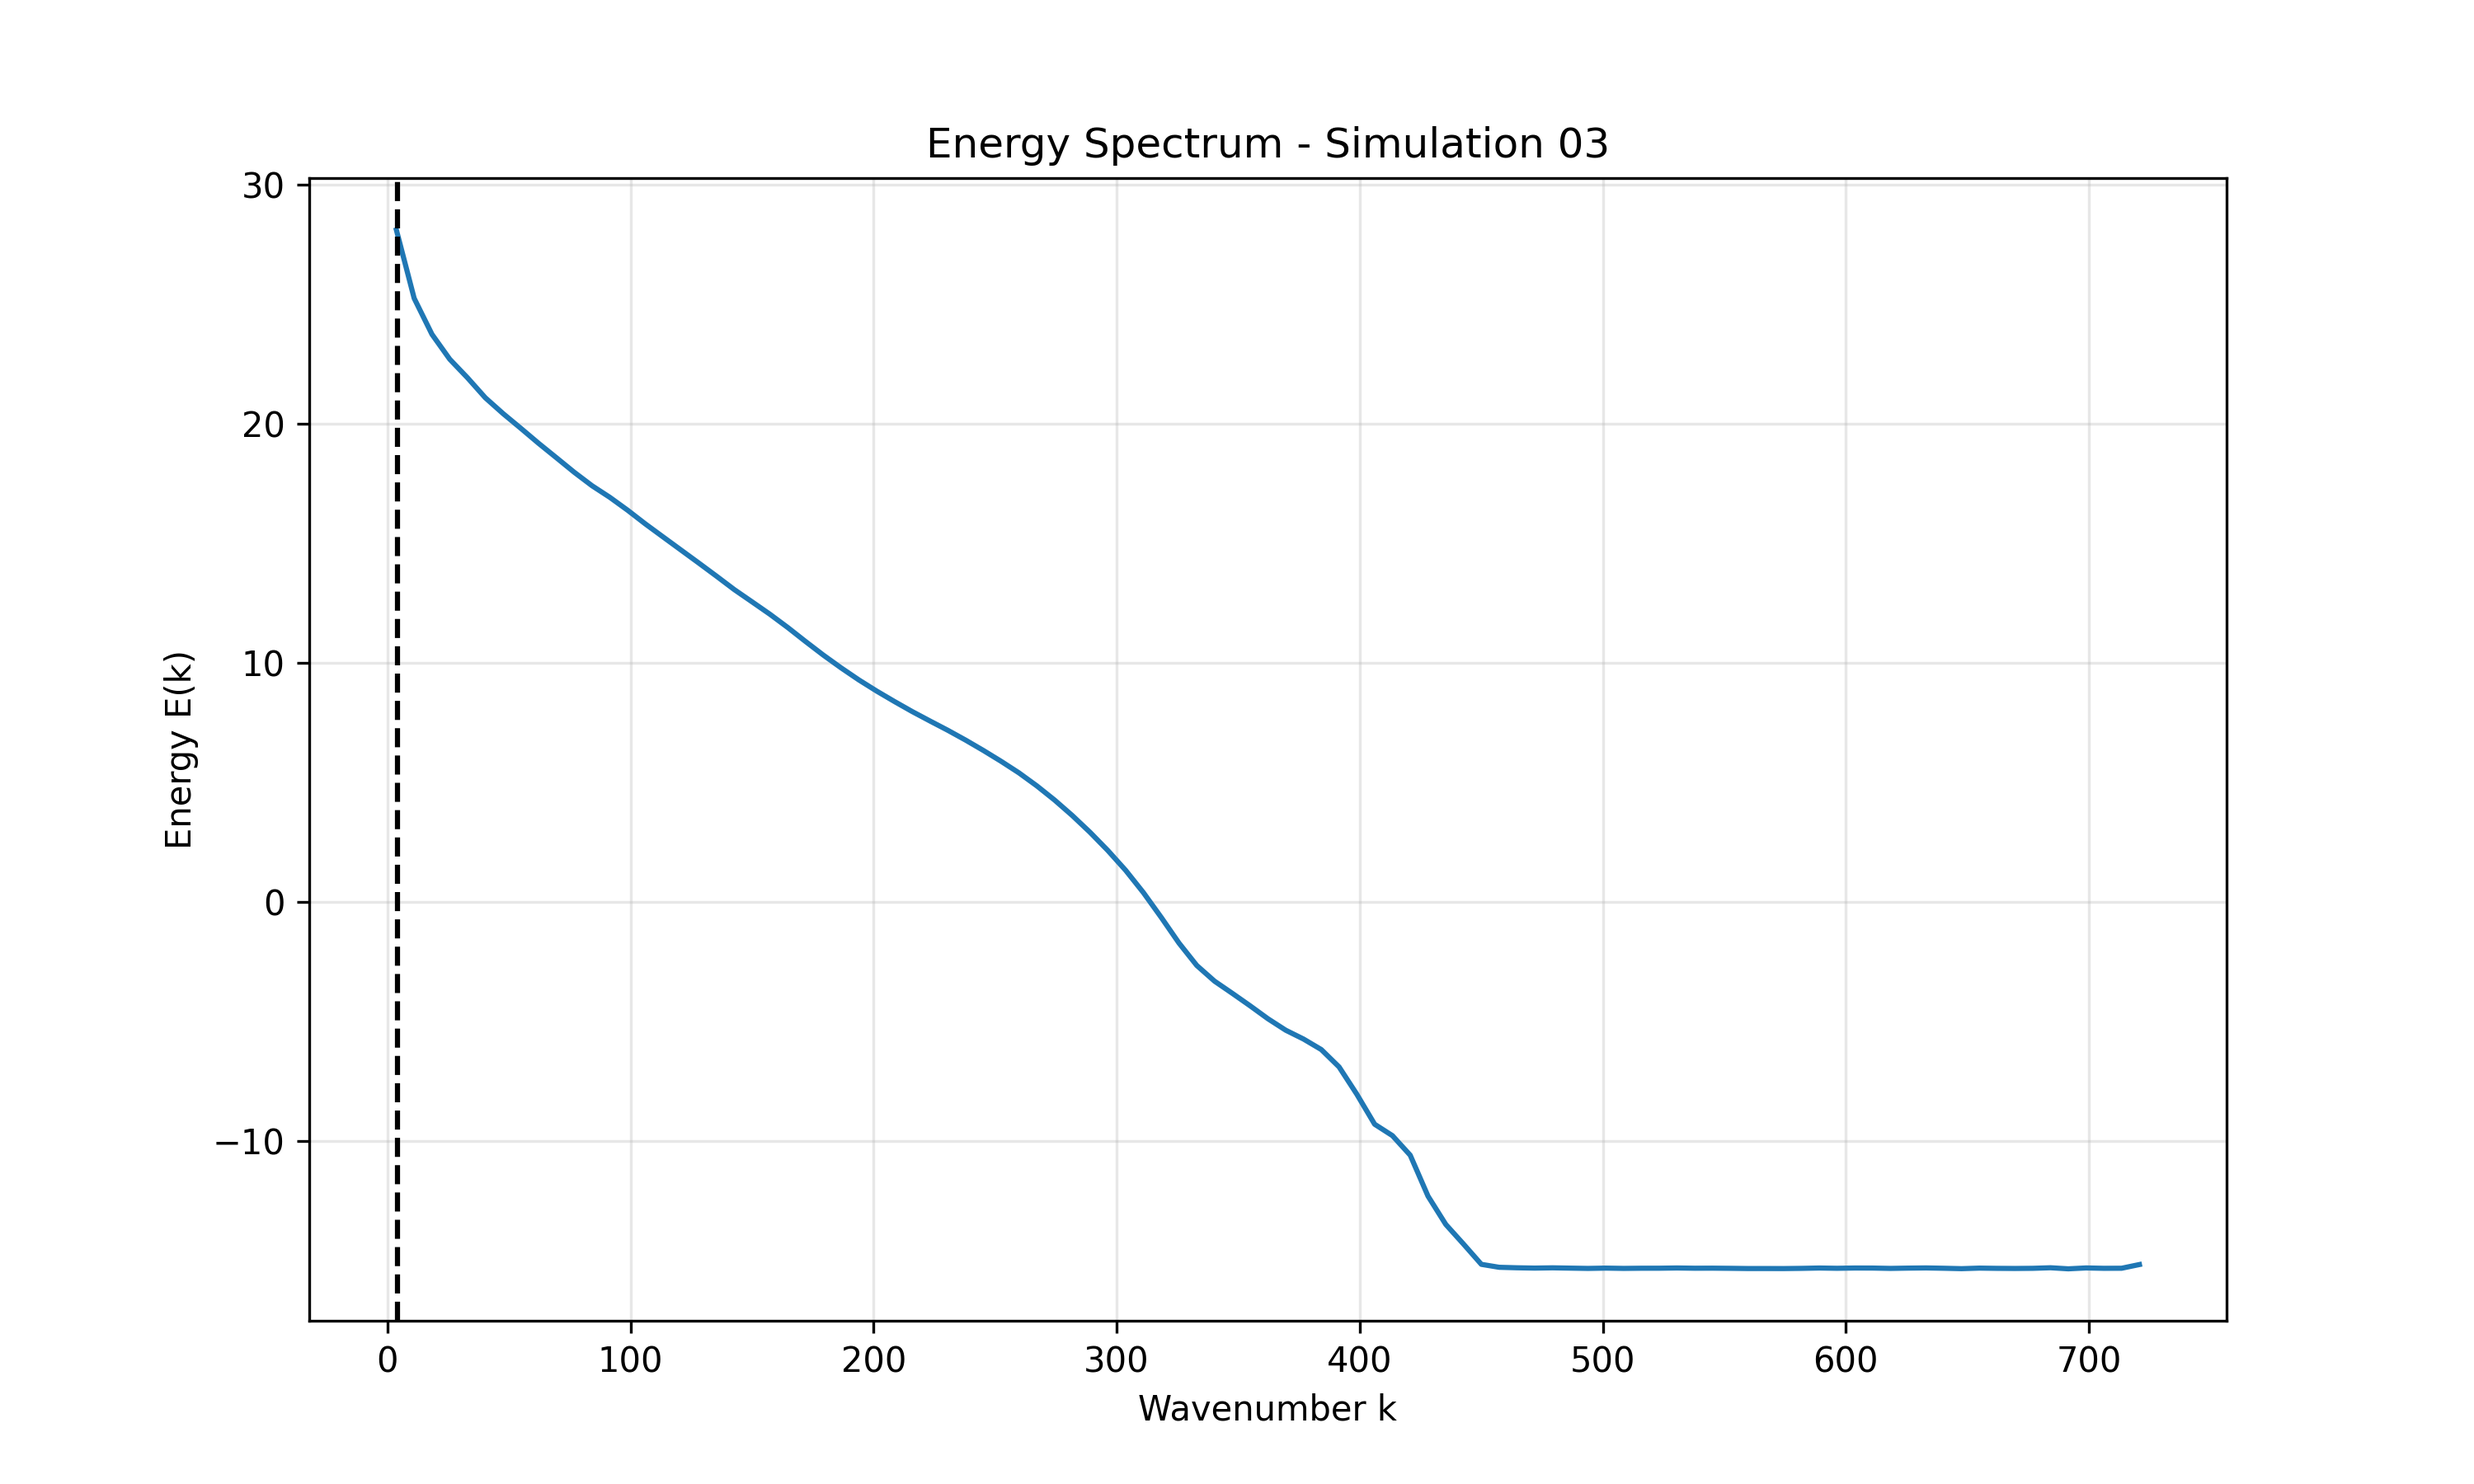
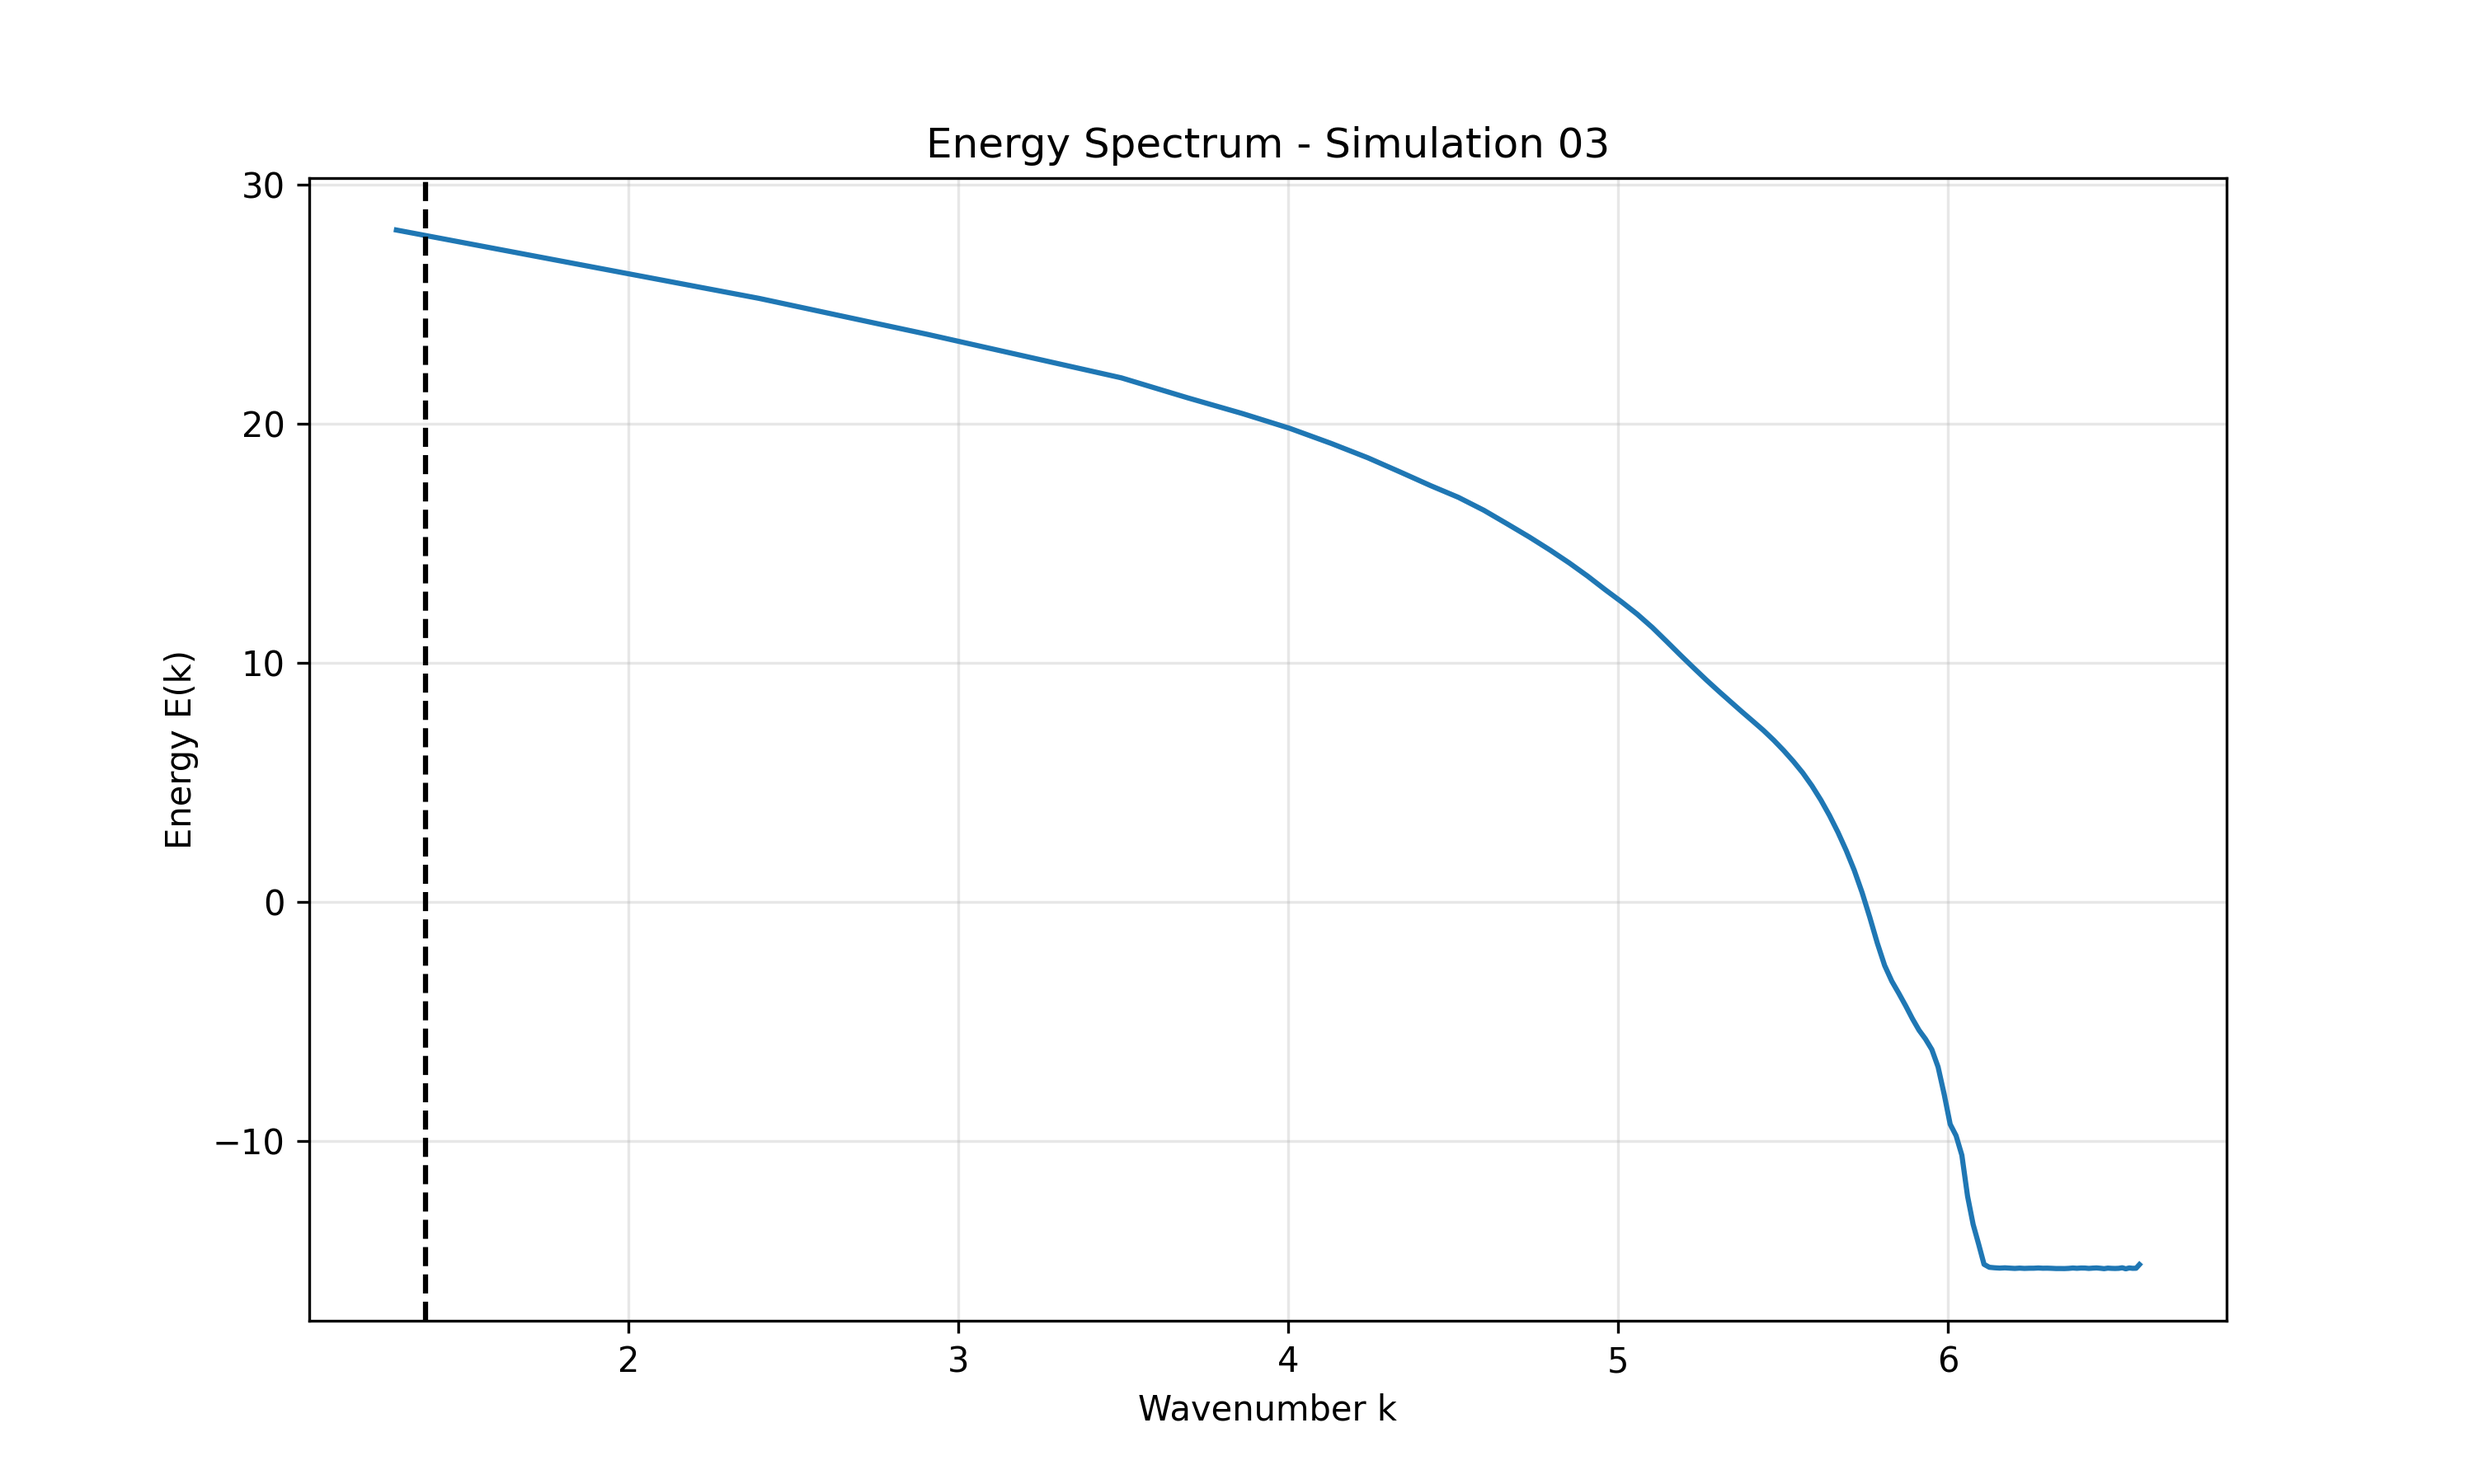
Changed k to be plotted on a natural log scale as well

diff --git a/Plotting.py b/Plotting.py
@@ -92,20 +92,15 @@ for j in range(n_sim):
         E_k[i] = np.mean(energy_spectrum[mask]) if np.any(mask) else 0
     
     k_centers = (k_bins[:-1] + k_bins[1:]) / 2
-    
-    k_centers = k_centers[k_centers > 0]
-
-    E_k = E_k[k_centers > 0]
-    E_k = np.log(E_k)
 
     # Plot energy spectrum
     fig_spectrum, ax_spectrum = plt.subplots(figsize=(10, 6))
-    ax_spectrum.plot(k_centers, E_k)
+    ax_spectrum.plot(np.log(k_centers), np.log(E_k))
     ax_spectrum.set_xlabel('Wavenumber k')
     ax_spectrum.set_ylabel('Energy E(k)')
     ax_spectrum.set_title(f'Energy Spectrum - Simulation {sim_n}')
     ax_spectrum.grid(True, which='both', alpha=0.3)
-    ax_spectrum.axvline(x = K, color='black', linestyle='--', label='Energy Injection Radius')
+    ax_spectrum.axvline(x = np.log(K), color='black', linestyle='--', label='Energy Injection Radius')
     fig_spectrum.savefig(out_dir + scale_dir + f'Energy-spectrum-{scaleth}.png', dpi=300)
 
     # Definition of scales
